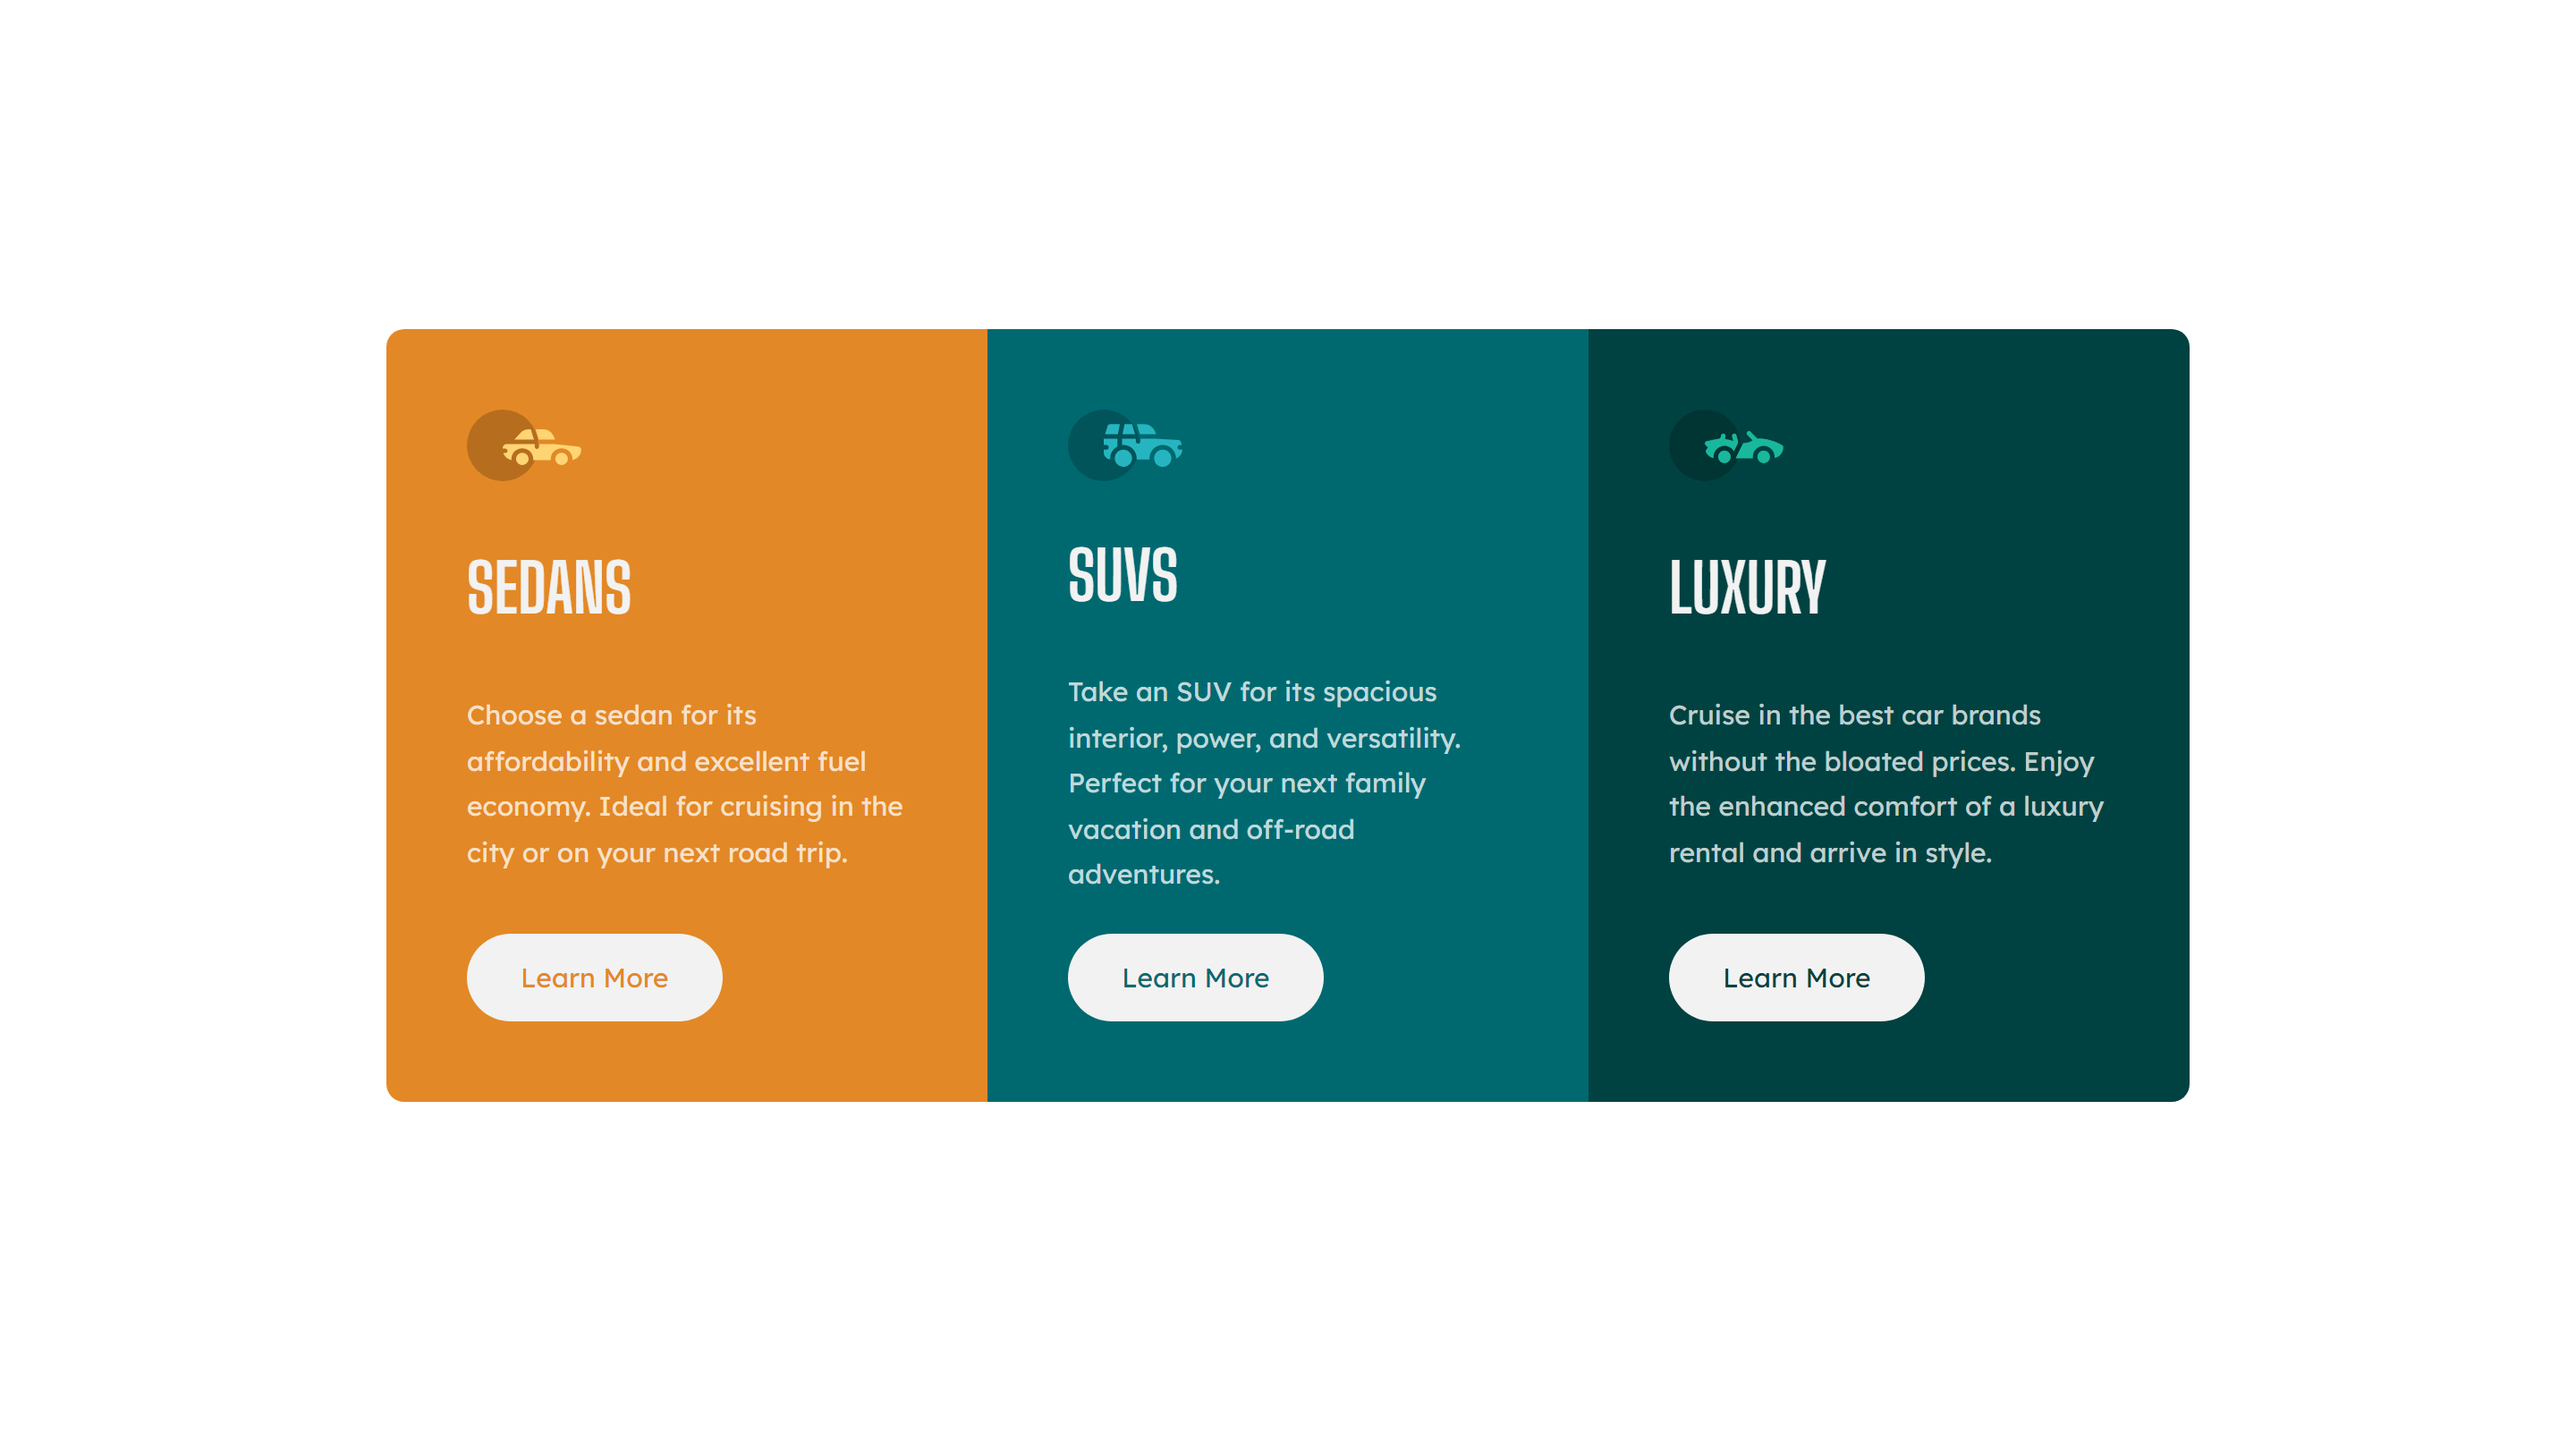
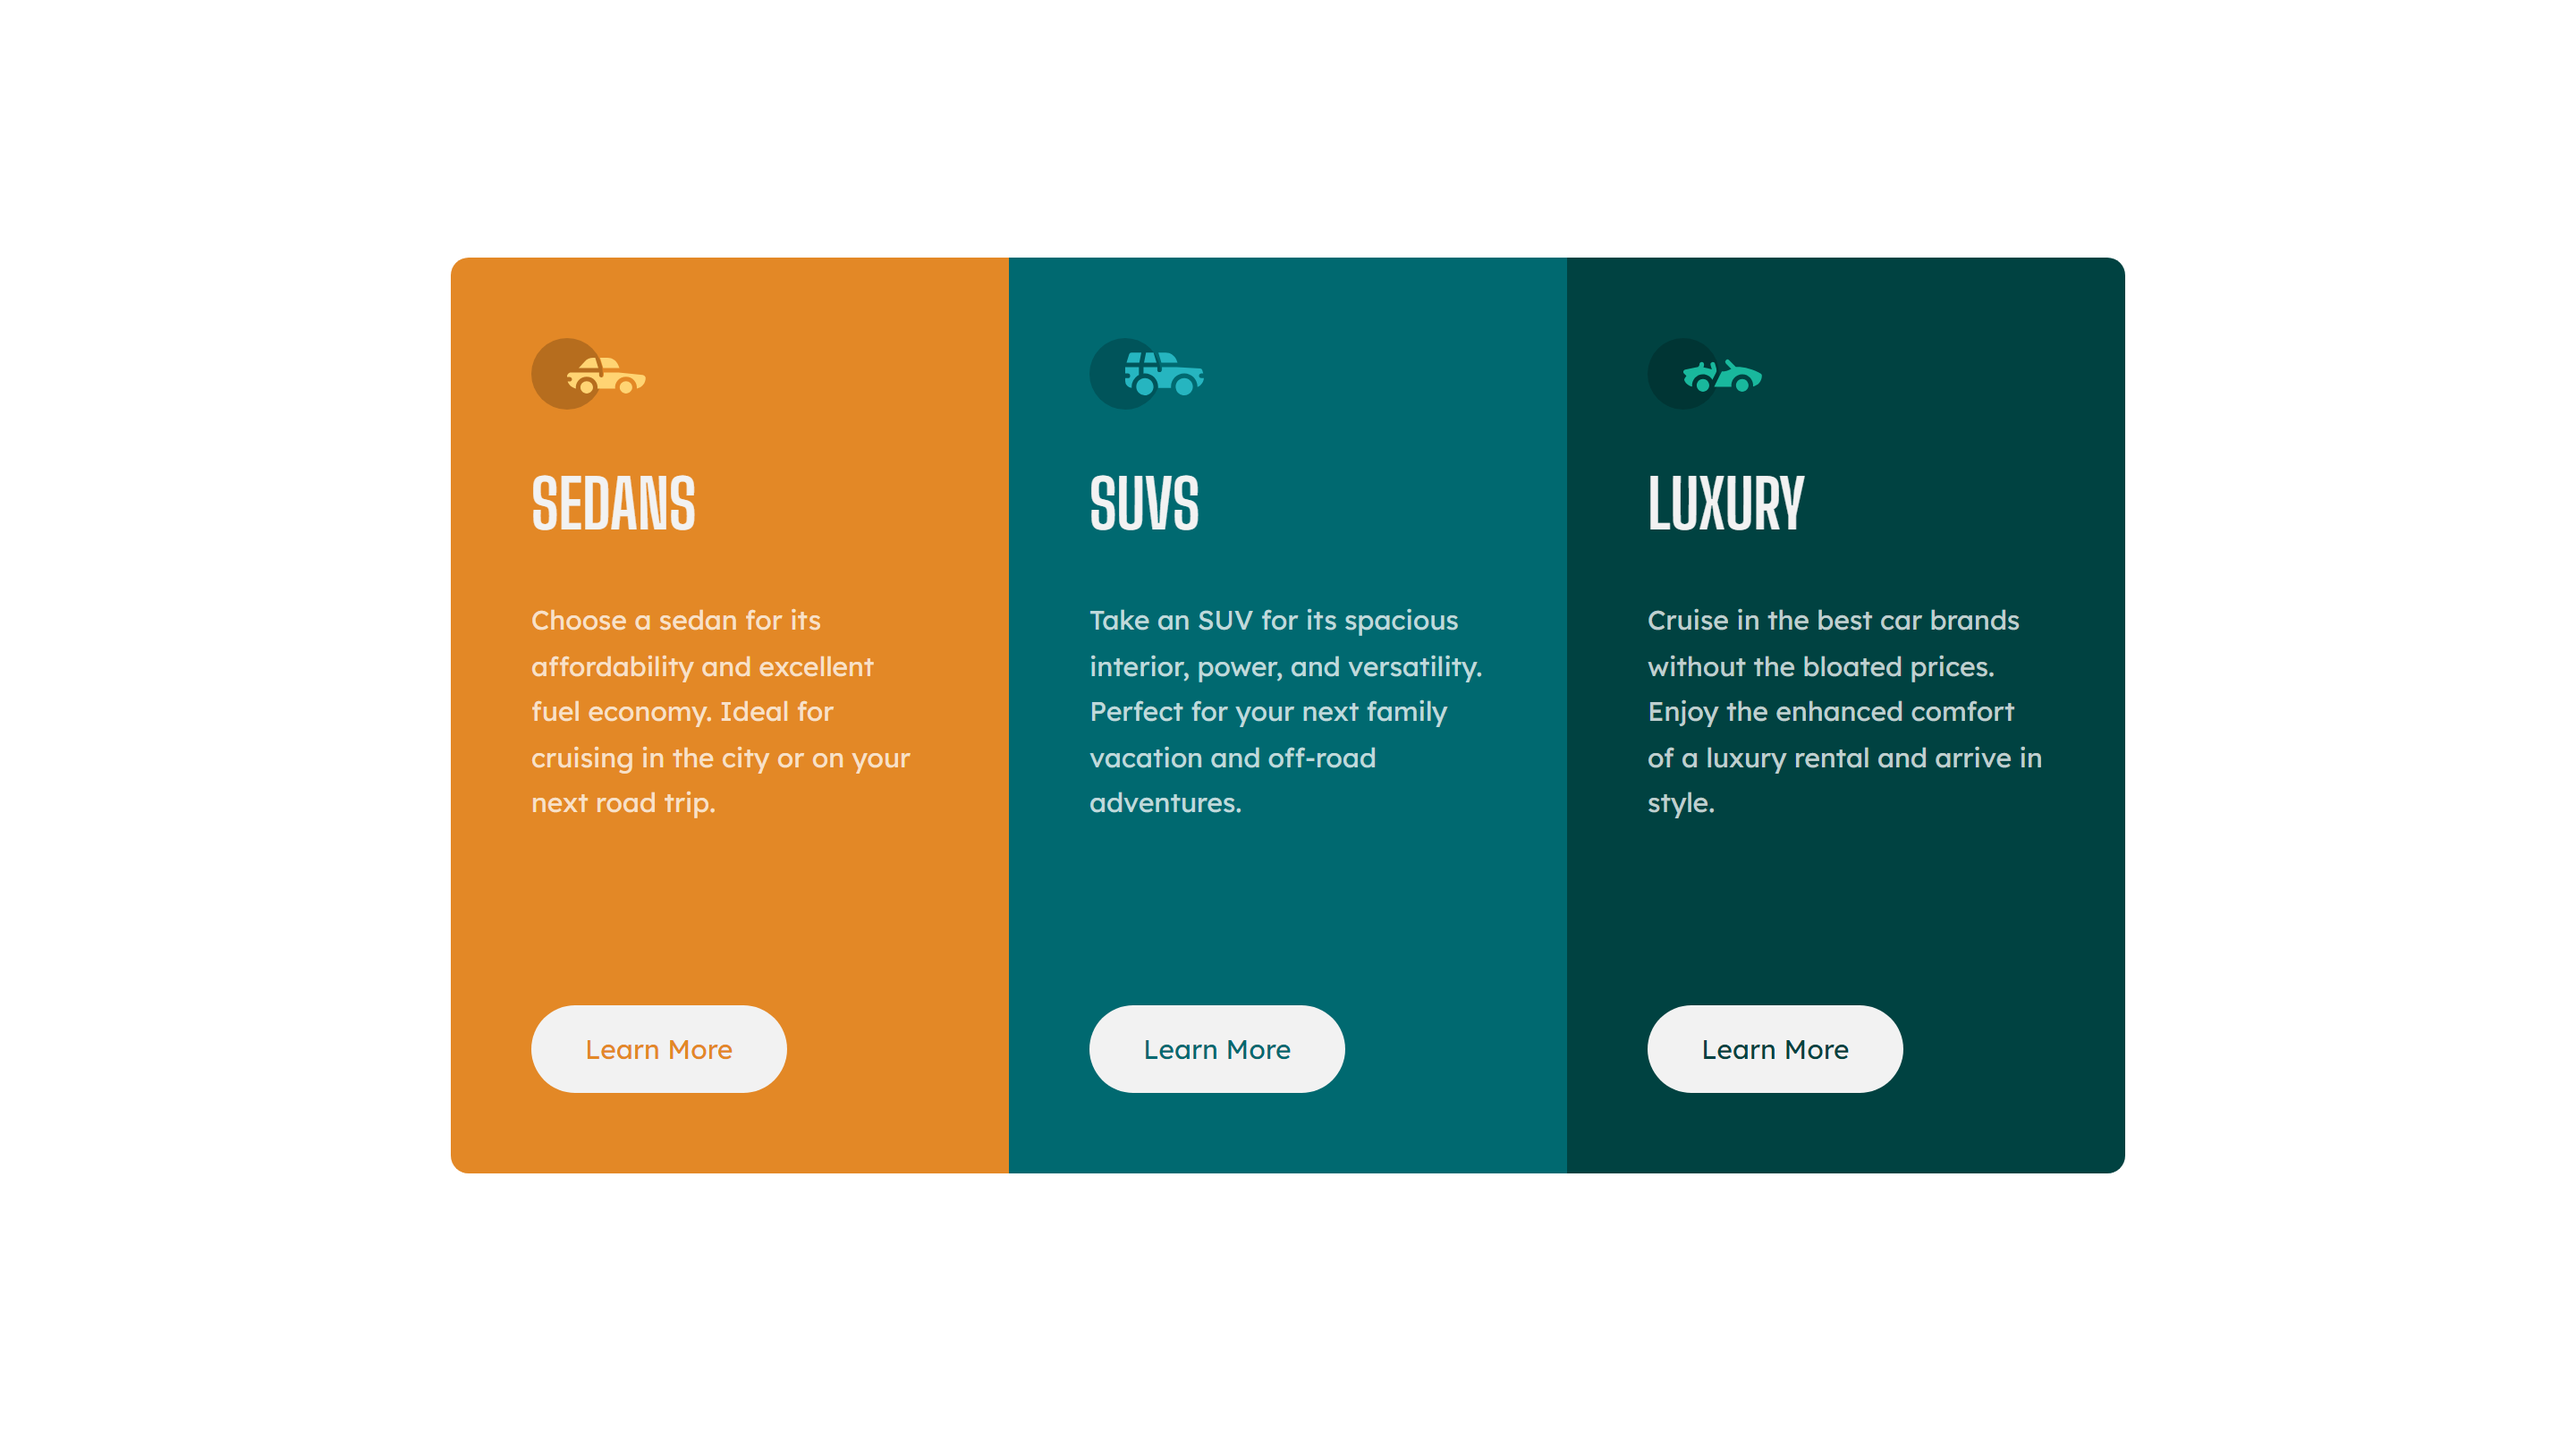
update design and readme

Changed region(s): [[0.125, 0.1562, 0.875, 0.8438]]

diff --git a/index.html b/index.html
@@ -14,6 +14,7 @@
   </head>
   <body>
     <main>
+      <h1 class="sr-only">Cards</h1>
       <section class="sedans">
         <svg width="64" height="40" xmlns="http://www.w3.org/2000/svg"><g fill="none" fill-rule="evenodd"><circle fill="#000" opacity=".201" cx="20" cy="20" r="20"/><path d="M52.936 24.11c1.942 0 3.517 1.542 3.517 3.445 0 1.903-1.575 3.445-3.517 3.445s-3.516-1.542-3.516-3.445c0-1.903 1.574-3.445 3.516-3.445zm-21.957 0c1.942 0 3.517 1.542 3.517 3.445 0 1.903-1.575 3.445-3.517 3.445s-3.516-1.542-3.516-3.445c0-1.903 1.574-3.445 3.516-3.445zm6.948-4.848v1.429c0 .716.61 1.293 1.348 1.259a1.295 1.295 0 001.225-1.295v-1.393h8.256l13.483 1.313c.956.093 1.676.881 1.676 1.814 0 2.89-2.126 5.303-4.926 5.819.397-3.557-2.458-6.62-6.053-6.62-3.646 0-6.504 3.14-6.039 6.723h-9.879c.466-3.588-2.397-6.722-6.039-6.722-3.595 0-6.45 3.062-6.052 6.62-2.14-.398-3.916-1.912-4.61-3.931h1.142c.731 0 1.32-.598 1.285-1.322-.033-.678-.629-1.2-1.322-1.2H20v-.251c0-1.274 1.066-2.243 2.306-2.243h15.62zM42.59 11c2.645 0 4.99 1.556 5.972 3.963l.726 1.779H40.17L38.413 11h4.178zm-6.865 0l1.758 5.741H26.505l3.357-3.654A6.502 6.502 0 0134.644 11h1.082z" fill="#FFD473" fill-rule="nonzero"/></g></svg>
         <h2>Sedans</h2>

diff --git a/styles.css b/styles.css
@@ -96,6 +96,11 @@ button:active {
     color: var(--light-gray);
 }
 
+.sr-only {
+    position: absolute;
+    left: -9999px;
+}
+
 
 @media (min-width: 1000px) {
     body {
@@ -104,7 +109,10 @@ button:active {
     }
     main {
         grid-template-columns: repeat(3, 1fr);
-        width: 70%;
+        width: 65%;
+    }
+    button {
+        margin-top: 10vh;
     }
     section:first-of-type {
         border-radius: 10px 0 0 10px;

diff --git a/README.md b/README.md
@@ -38,8 +38,8 @@ Users should be able to:
 
 ### Links
 
-- Solution URL: [Add solution URL here](https://your-solution-url.com)
-- Live Site URL: [Add live site URL here](https://your-live-site-url.com)
+- Solution URL: [Solution](https://www.frontendmentor.io/solutions/mobilefirst-design-using-css-grid-and-flexbox-Bqf2CMurlH)
+- Live Site URL: [Live Site](https://frontendmentor-ilyesab.github.io/3-column-preview-card-component/)
 
 ## My process
 
